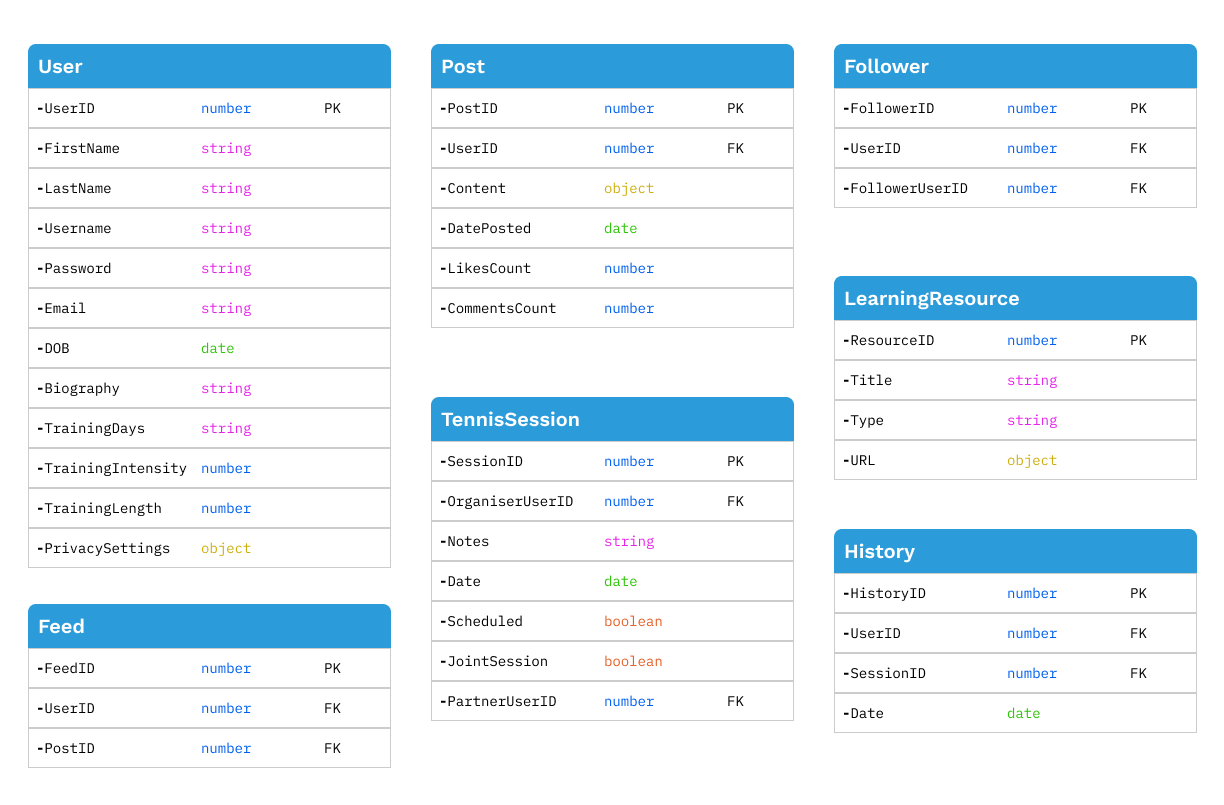
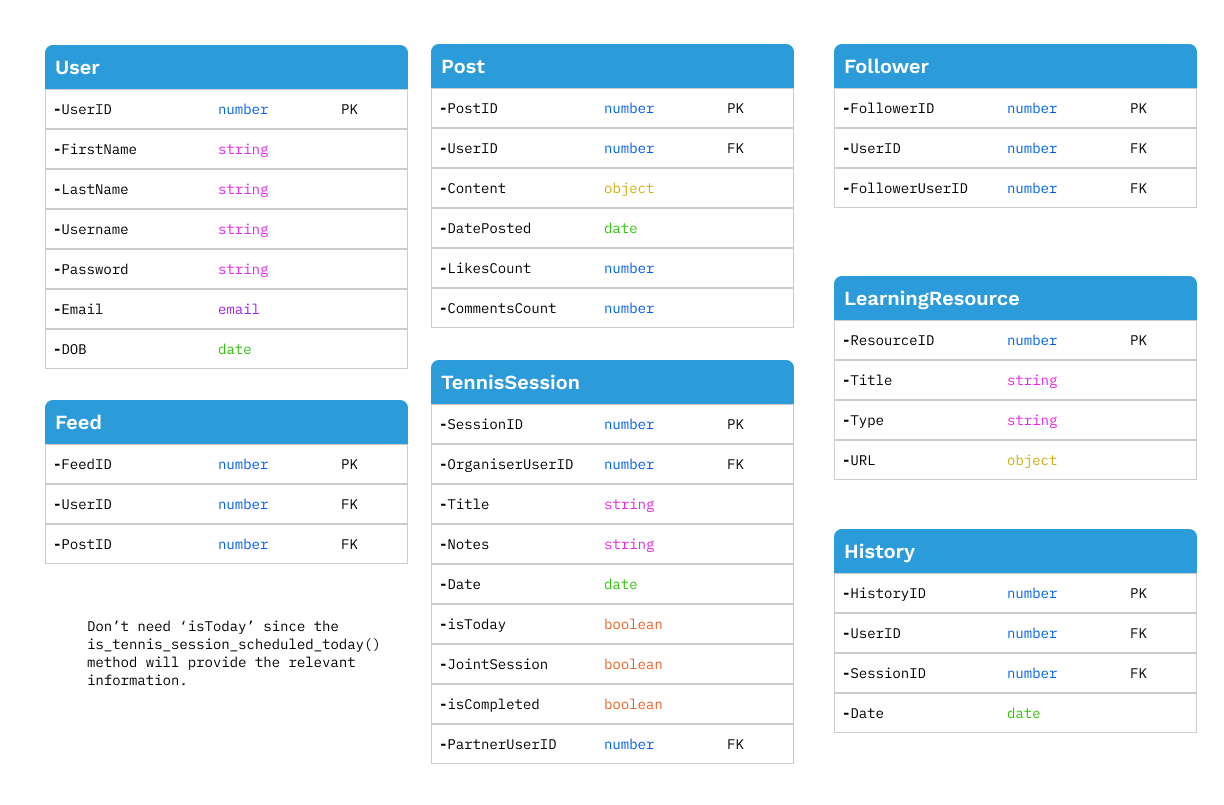
Adding the updated version of the UML.

diff --git a/draftReport.md b/draftReport.md
@@ -598,61 +598,55 @@ In terms of user authentication the prototype is quite good, though the next ste
 
 The calendar is currently dynamically rendered. The user can change what month they are viewing by utilising the date picker. Though the functionality for this is not yet complete, the goal is for the calendar to be newly rendered whenever a new date is selected (if it is is a different month). However, due to the nature of the html date input, an `onChange` events refers to any valid date- which may not necessarily be the date the user wanted to select. This  would result in an app that displays the calendar for a date not wanted by the user, therefore this is something that must be kept in mind while working on the planner's functionality.
 
-
-
-I decided that I wanted to start building SixLove's functionality in a somewhat chronological order. Chronological order referring to the user's flow, for instance, what route will potential users take when navigating the app? That meant starting with the landing page, then moving onto the sign up and login pages, then to the pages that allow the users to add, edit, and delete tennis sessions. I have previously stated SixLove's aims and objectives, and at their very core user authentication and tennis sessions play a huge role in whether the aims and objectives are met, so using this order made the most logical sense. I must mention however, at this stage my goal was to program the functionality, therefore I did very minimal styling- currently the user interface is not fully fleshed out (or quite minimal- refer to **figures 16** to **23** to see what I mean), and there will be upcoming changes to the wireframes based on user input and accessibility matters.
+I decided that I wanted to start building SixLove's functionality in a somewhat chronological order. Chronological order referring to the user's flow, for instance, what route will potential users take when navigating the app? That meant starting with the landing page, then moving on to the sign up and login pages, then to the pages that allow the users to add, edit, and delete tennis sessions. I have previously stated SixLove's aims and objectives, and at their very core user authentication and tennis sessions play a huge role in whether the aims and objectives are met, so using this approach made the most logical sense. I must mention however, at this stage my goal was to program the functionality, therefore I did very minimal styling- currently the user interface is not fully fleshed out (or quite minimal- refer to **figures 16** to **23** to see what I mean), and there will be upcoming changes to the wireframes based on user input and accessibility matters.
 
 <img title="" src="images/calendar-page.png" alt="">
 
 **Figure 16** The project's current calendar page. (Screenshot of the developer tools view to get a view of the whole page- 50% zoom).
 
-
-
 <img title="" src="images/calendar-page-side-panel.png" alt="">
 
 **Figure 17** The project's current side panel for the calendar page. (Screenshot of the developer tools view to get a view of the whole page- 50% zoom).
-
-
 
 <img title="" src="images/calendar-page-edit-session.png" alt="">
 
 **Figure 18** The project's current edit tennis session popup for the calendar page. (Screenshot of the developer tools view to get a view of the whole page- 50% zoom).
 
-
-
 <img title="" src="images/calendar-page-add-session.png" alt="">
 
 **Figure 19** The project's current add tennis session popup for the calendar page. (Screenshot of the developer tools view to get a view of the whole page- 50% zoom).
-
-
 
 <img title="" src="images/calendar-page-delete-session.png" alt="">
 
 **Figure 20** The project's current delete tennis session popup for the calendar page. (Screenshot of the developer tools view to get a view of the whole page- 50% zoom).
 
-
-
 <img title="" src="images/tennis-page.png" alt="">
 
 **Figure 21** The project's current tennis page. (Screenshot of the developer tools view to get a view of the whole page- 50% zoom).
-
-
 
 <img title="" src="images/login-page.png" alt="">
 
 **Figure 22** The project's current login page. (Screenshot of the developer tools view to get a view of the whole page- 50% zoom).
 
-
-
 <img title="" src="images/sign-up-page.png" alt="">
 
 **Figure 23** The project's current sign up page. (Screenshot of the developer tools view to get a view of the whole page- 50% zoom).
 
-
-
 ## 4.1 The `registration` app
 
-User authentication is a primary requirement of the app. SixLove's purpose is to allow its users to keep track of their tennis sessions, follow a training schedule, and feel a sense of community. User authentication is needed for this to work. Users can only keep track of their sessions if they are able to log in. In addition, users should only be able to access their tennis sessions and no other users (other than in the case of joint sessions).
+User authentication is a primary requirement of the app. SixLove's purpose is to allow its users to keep track of their tennis sessions, follow a training schedule, and feel a sense of community. User authentication is needed for this to work. Users can only keep track of their sessions if they are able to log in. In addition, users should only be able to access their tennis sessions and not another user's one (other than in the case of joint sessions). User authentication is housed within the `registration` app. The app has the following pages:
+
+- Home- the page that the user lands on when they navigate to the SixLove web application as a new or logged out user.
+
+- Sign up- the page that allows the user to sign up.
+
+- Onboarding- subject to change, however currently, it is the page that gains information about the user to help create a schedule.
+
+- Login- the page that authenticates the user.
+
+
+
+In order to authenticate the users, I needed to first create a table in my database that would store users information.
 
 ## 4.2 The `tennis` app
 
